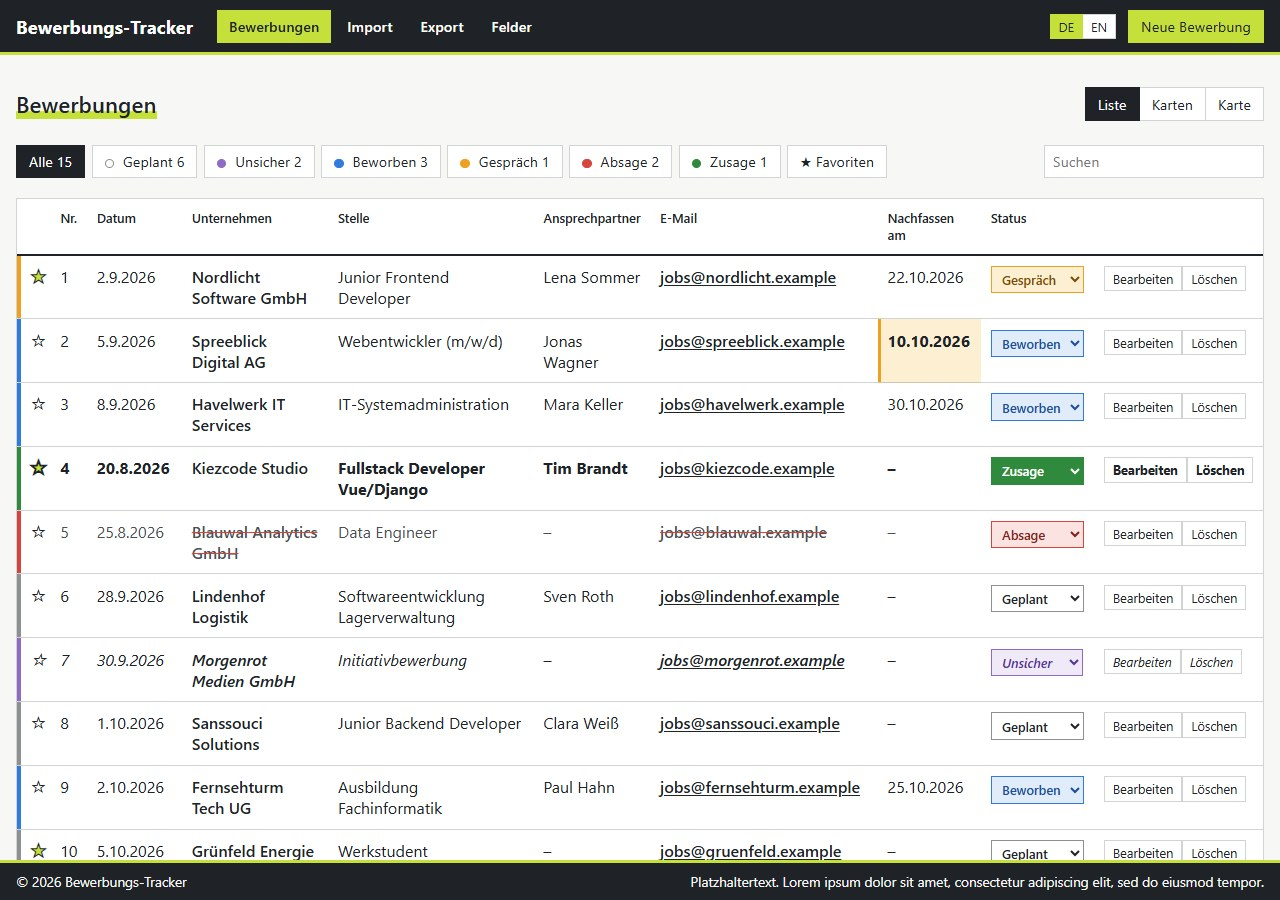
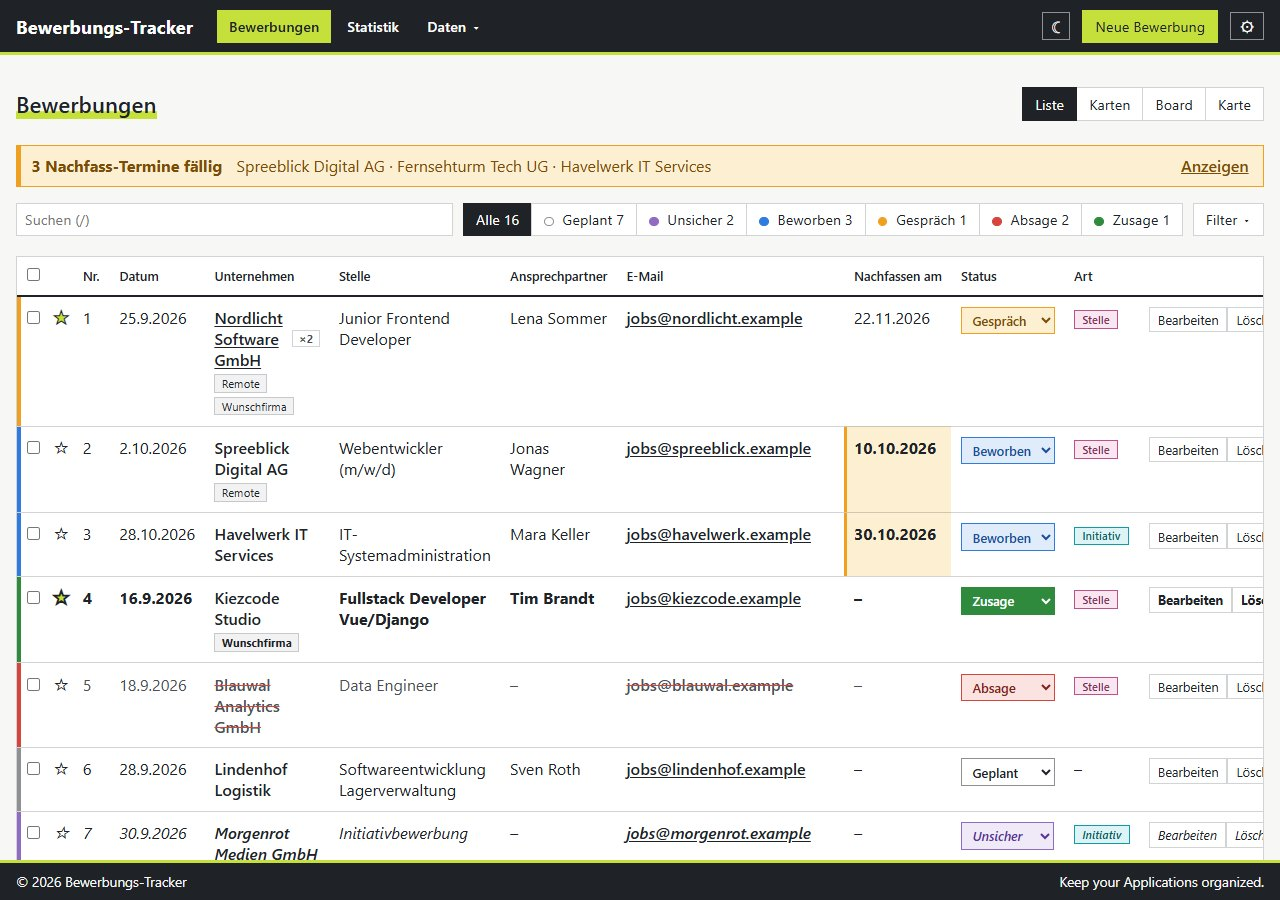
Update the README with new screenshots and the detail view
The preview shows the list, the detail view, the board, the statistics, the cards, the map, the dark theme with the filter menu and the detail view on a phone, all with made up demo data. The usage notes describe the new detail view and the field settings.

diff --git a/README.md b/README.md
@@ -10,11 +10,20 @@
 ## Preview
 
 <p align="center">
-  <img src="frontend/src/assets/screenshot/preview-list.jpg" alt="Listenansicht mit Statusfarben" width="48%">
-  <img src="frontend/src/assets/screenshot/preview-cards.jpg" alt="Kartenansicht mit Entfernungen zum eigenen Standort" width="48%">
+  <img src="frontend/src/assets/screenshot/preview-list.jpg" alt="Listenansicht mit Filter, Statusfarben und Art" width="48%">
+  <img src="frontend/src/assets/screenshot/preview-detail.jpg" alt="Detailansicht mit Statusleiste, Reitern und Abschnitten" width="48%">
 </p>
 <p align="center">
-  <img src="frontend/src/assets/screenshot/preview-map.jpg" alt="Kartenansicht mit Standorten der Bewerbungen" width="85%">
+  <img src="frontend/src/assets/screenshot/preview-board.jpg" alt="Board mit einer Spalte pro Status" width="48%">
+  <img src="frontend/src/assets/screenshot/preview-stats.jpg" alt="Statistik mit Antwortquote und Verlauf" width="48%">
+</p>
+<p align="center">
+  <img src="frontend/src/assets/screenshot/preview-cards.jpg" alt="Kartenansicht mit Entfernungen zum eigenen Standort" width="48%">
+  <img src="frontend/src/assets/screenshot/preview-map.jpg" alt="Kartenansicht mit Standorten der Bewerbungen" width="48%">
+</p>
+<p align="center">
+  <img src="frontend/src/assets/screenshot/preview-dark.jpg" alt="Dunkles Design mit geöffnetem Filter-Menü" width="62%">
+  <img src="frontend/src/assets/screenshot/preview-mobile.jpg" alt="Detailansicht auf dem Handy" width="21%">
 </p>
 
 The screenshots show fictitious demo data; companies, people and addresses are made up.
@@ -32,14 +41,14 @@ This project is under active development. Features and the data model may still 
 - Compact toolbar: live search (company, position, contact person, email, phone, city, notes; the slash key jumps to it), status segments with counters and a Filter menu for the type, tags, favorites, due follow-ups and grouping; the active filters stay visible as chips that can be removed one by one
 - Status colors that are the same in the table, on the cards and on the map
 - Consecutive numbering of the applications in the table and detail view
-- Detail view in a modal dialog
+- Detail view with the status, type and next date in the header, quick actions (mail, call, open the posting), a bar that shows the way from planned to offer, tabs for the overview, the history and the documents, the fields in sections and arrows to go through the applications; a field is changed by clicking it
 - Follow-up reminders: a banner lists the applications whose follow-up date has come (status applied) and narrows the list to them with one click, overdue dates are highlighted in the table
 - Sortable table columns (click a column header; the numbering stays with the application) and an optional grouping by company, a badge shows when a company has several applications
 - Select several applications to change their status or delete them at once
 - Deleting moves an application to a trash for 7 days, a message offers "Undo"; older entries are purged for good together with their files
 - History per application: status changes are logged automatically, notes with a date can be added in the detail view
 - Tags per application (comma separated, shown as chips, filter above the list); a warning appears in the form when the company already exists
-- Configurable fields: choose which columns appear in the table and which fields appear in the form and detail view. Hidden fields are not deleted, their data stays stored and can be shown again at any time
+- Configurable fields: choose which columns appear in the table and which fields appear in the form and detail view, and arrange the fields of the detail view in sections (reorder them, move fields between them, add sections of your own). Hidden fields are not deleted, their data stays stored and can be shown again at any time
 - Extra fields: source, application channel, work model, salary, interview date, response date, rejection reason
 - Document attachments per application (cover letter, CV, certificate, other)
 - List, card, board and map views for applications; the board shows one column per status and moves an application when its card is dragged to another column
@@ -220,12 +229,12 @@ The tests cover the API (search, ordering, file cleanup), attachment uploads and
 
 ## Usage
 
-- **Navigation:** the header has the Applications and Statistics pages, the Data menu with Import, Export as CSV, Calendar (.ics) and Backup, the button for a new application, and the gear menu with Choose fields, the theme and the language. The application name and the Applications entry reset search and filters.
+- **Navigation:** the header has the Applications and Statistics pages, the Data menu with Import, Export as CSV, Calendar (.ics) and Backup, the button for a new application, and the gear menu with Manage fields, the theme and the language. The application name and the Applications entry reset search and filters.
 - **New application:** the button in the header (or the plus button on small screens) opens a small dialog. Paste the link to the job posting and the company is read from it, with its logo when logos are switched on; job boards such as LinkedIn or StepStone are not mistaken for the company. Add the position, choose Planned or Applied and a type, and press Add. Show all fields continues in the full form with everything entered so far. Only the company is required, and a warning appears when it already exists.
 - **Status:** change it directly in the table, or filter by it with the buttons above the table. Each status has its own color: planned (gray), unsure (violet), applied (blue), interview (amber), rejected (red, name crossed out) and offer (green). The type is shown as a small badge with its own color. The colors are defined as CSS variables at the top of `frontend/src/style.css`.
 - **Favorites:** click the star in the table. The favorites button filters the list.
-- **Details:** click a row to open the detail dialog. There you can also edit, delete and manage documents.
-- **Fields:** Choose fields in the gear menu lets you choose the visible table columns and the visible form fields. The company and the status are always shown. The selection is stored in the browser.
+- **Details:** click a row to open the detail view. The header has the status and type menus (change them without leaving the view), the next date and quick actions; the bar below shows how far the application has come. The Overview tab groups the fields in sections and shows only what is filled in, empty fields are offered as "+ field" at the bottom. Click a value or its pencil to change it in place (Enter saves, Escape cancels); the address is one entry with three inputs. History and Documents are tabs of their own, and the tab you used last is remembered. The arrows in the header, the left and right arrow keys and the letters J and K go to the next or previous application of the list. Duplicate copies an application into the form, for example for a second position at the same company.
+- **Fields:** Manage fields in the gear menu has the sections of the detail view on the left and the fields of the selected section on the right. For each field, switch it on or off for the form and detail view and for the table, move it to another section and change its position; sections can be reordered, and sections of your own can be added, renamed and deleted (their fields return to the default sections). Fields without a section (company, position, status, type, number) are always in the header. Hide empty fields turns the "+ field" display on or off. New fields of a later version appear in their section automatically. The company and the status are always shown, and the choices are stored in the browser.
 - **Documents:** open an application, pick a type and attach files. Allowed types are PDF, Word, ODT, TXT, PNG and JPG, up to 10 MB per file.
 - **Import:** open Import, download the template if needed, choose a file and review the dry-run preview before importing. Supported formats are `.csv`, `.tsv`, `.txt`, `.xlsx`, `.xlsm`, `.ods` and `.json`, up to 5 MB. German and English column names are recognized; unknown columns are shown as ignored. Choose whether to add new companies and update existing applications or import new companies only. Existing companies are matched case-insensitively after whitespace normalization. In update mode, non-empty imported values update the oldest matching application; empty cells do not erase saved data. Repeated companies in the same file are counted as duplicates.
 - **Export:** Export as CSV in the Data menu downloads all applications as a CSV file (semicolon separated, UTF-8 with BOM, opens directly in Excel and LibreOffice). The file uses the same columns as the import template.
